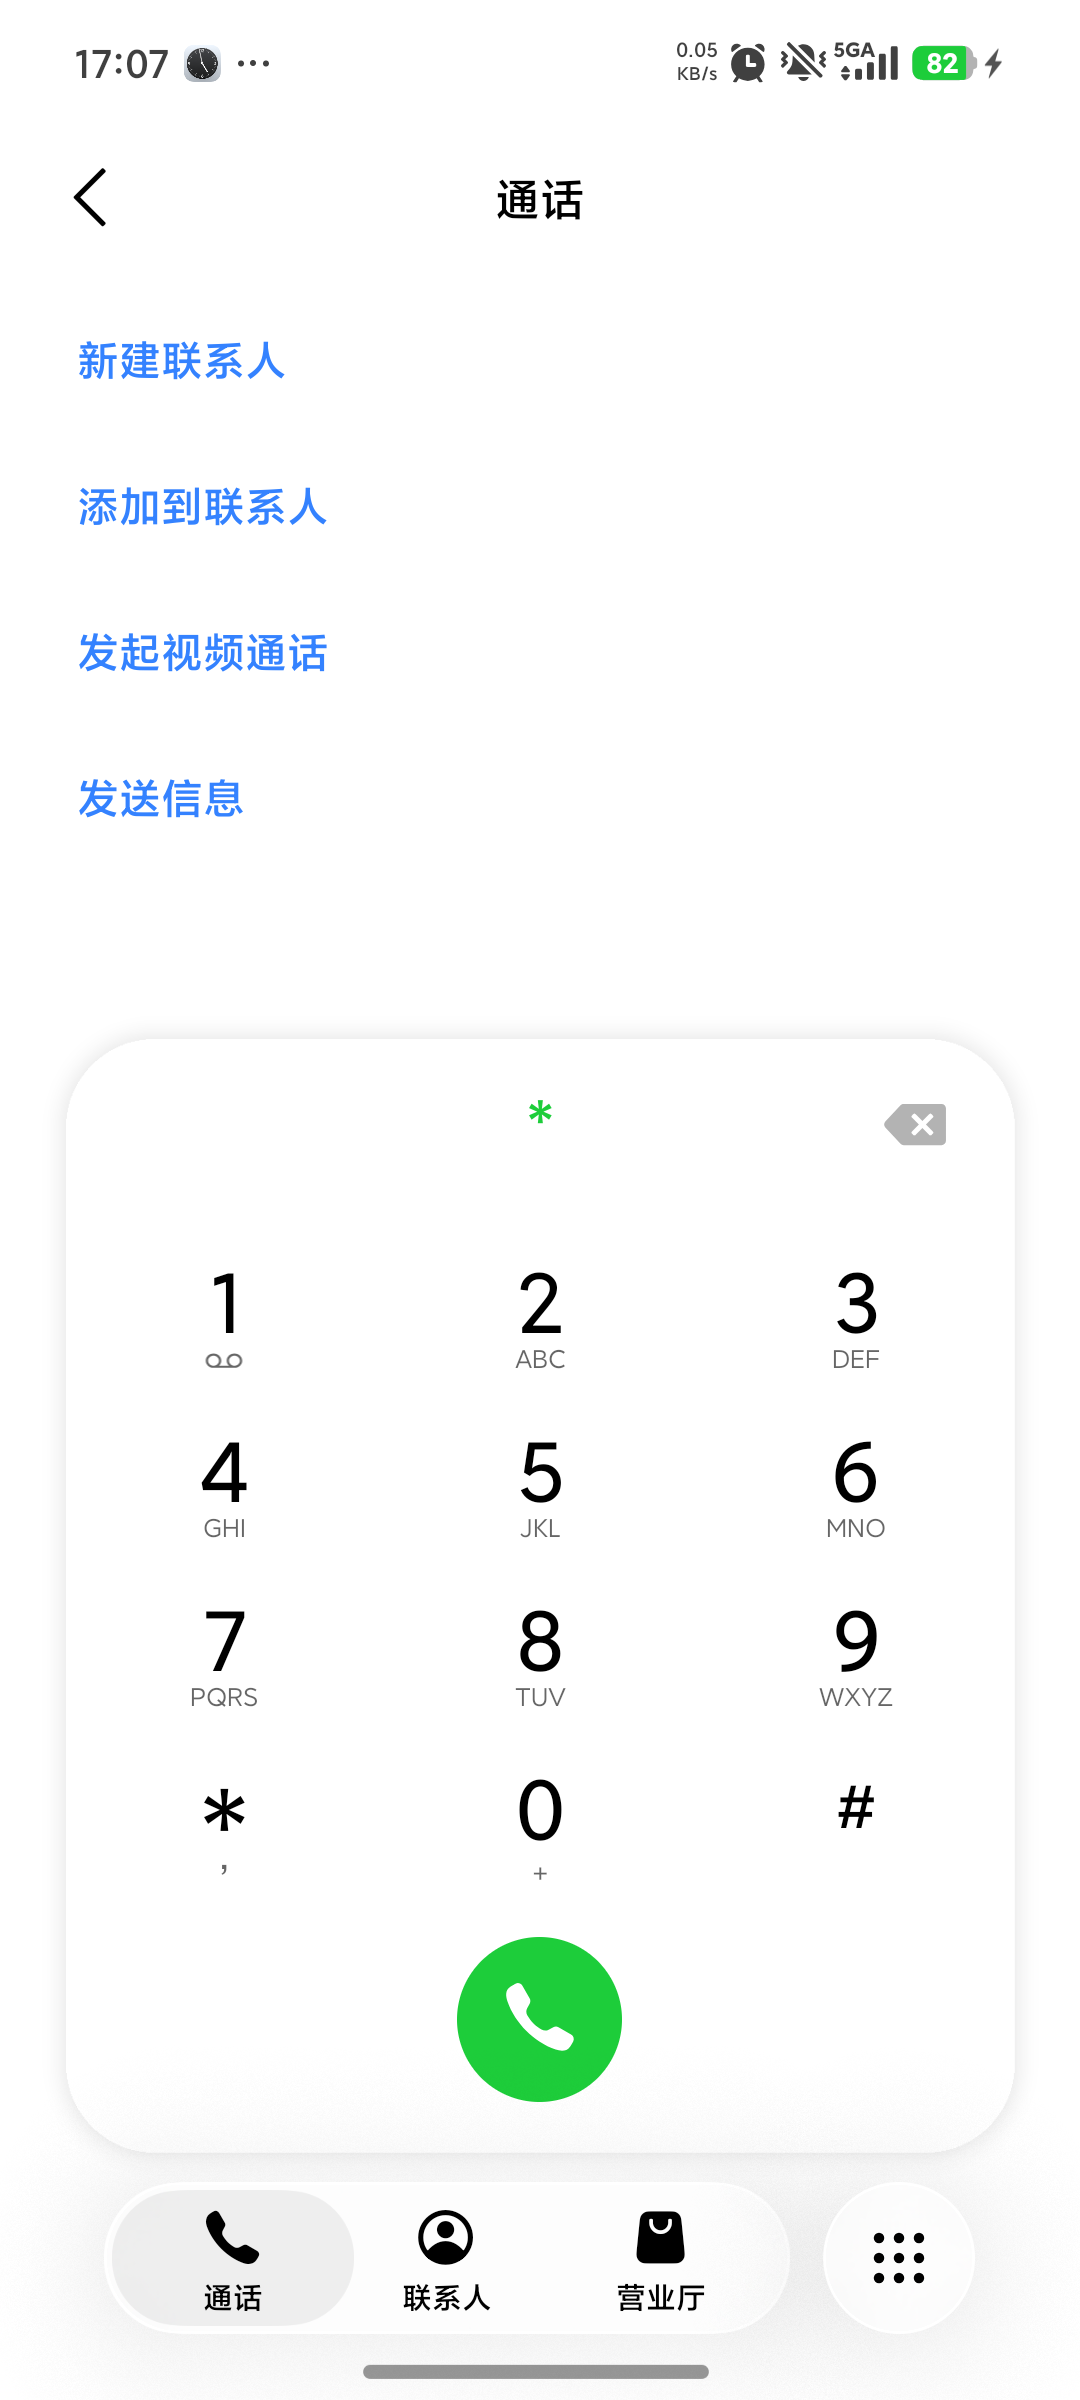
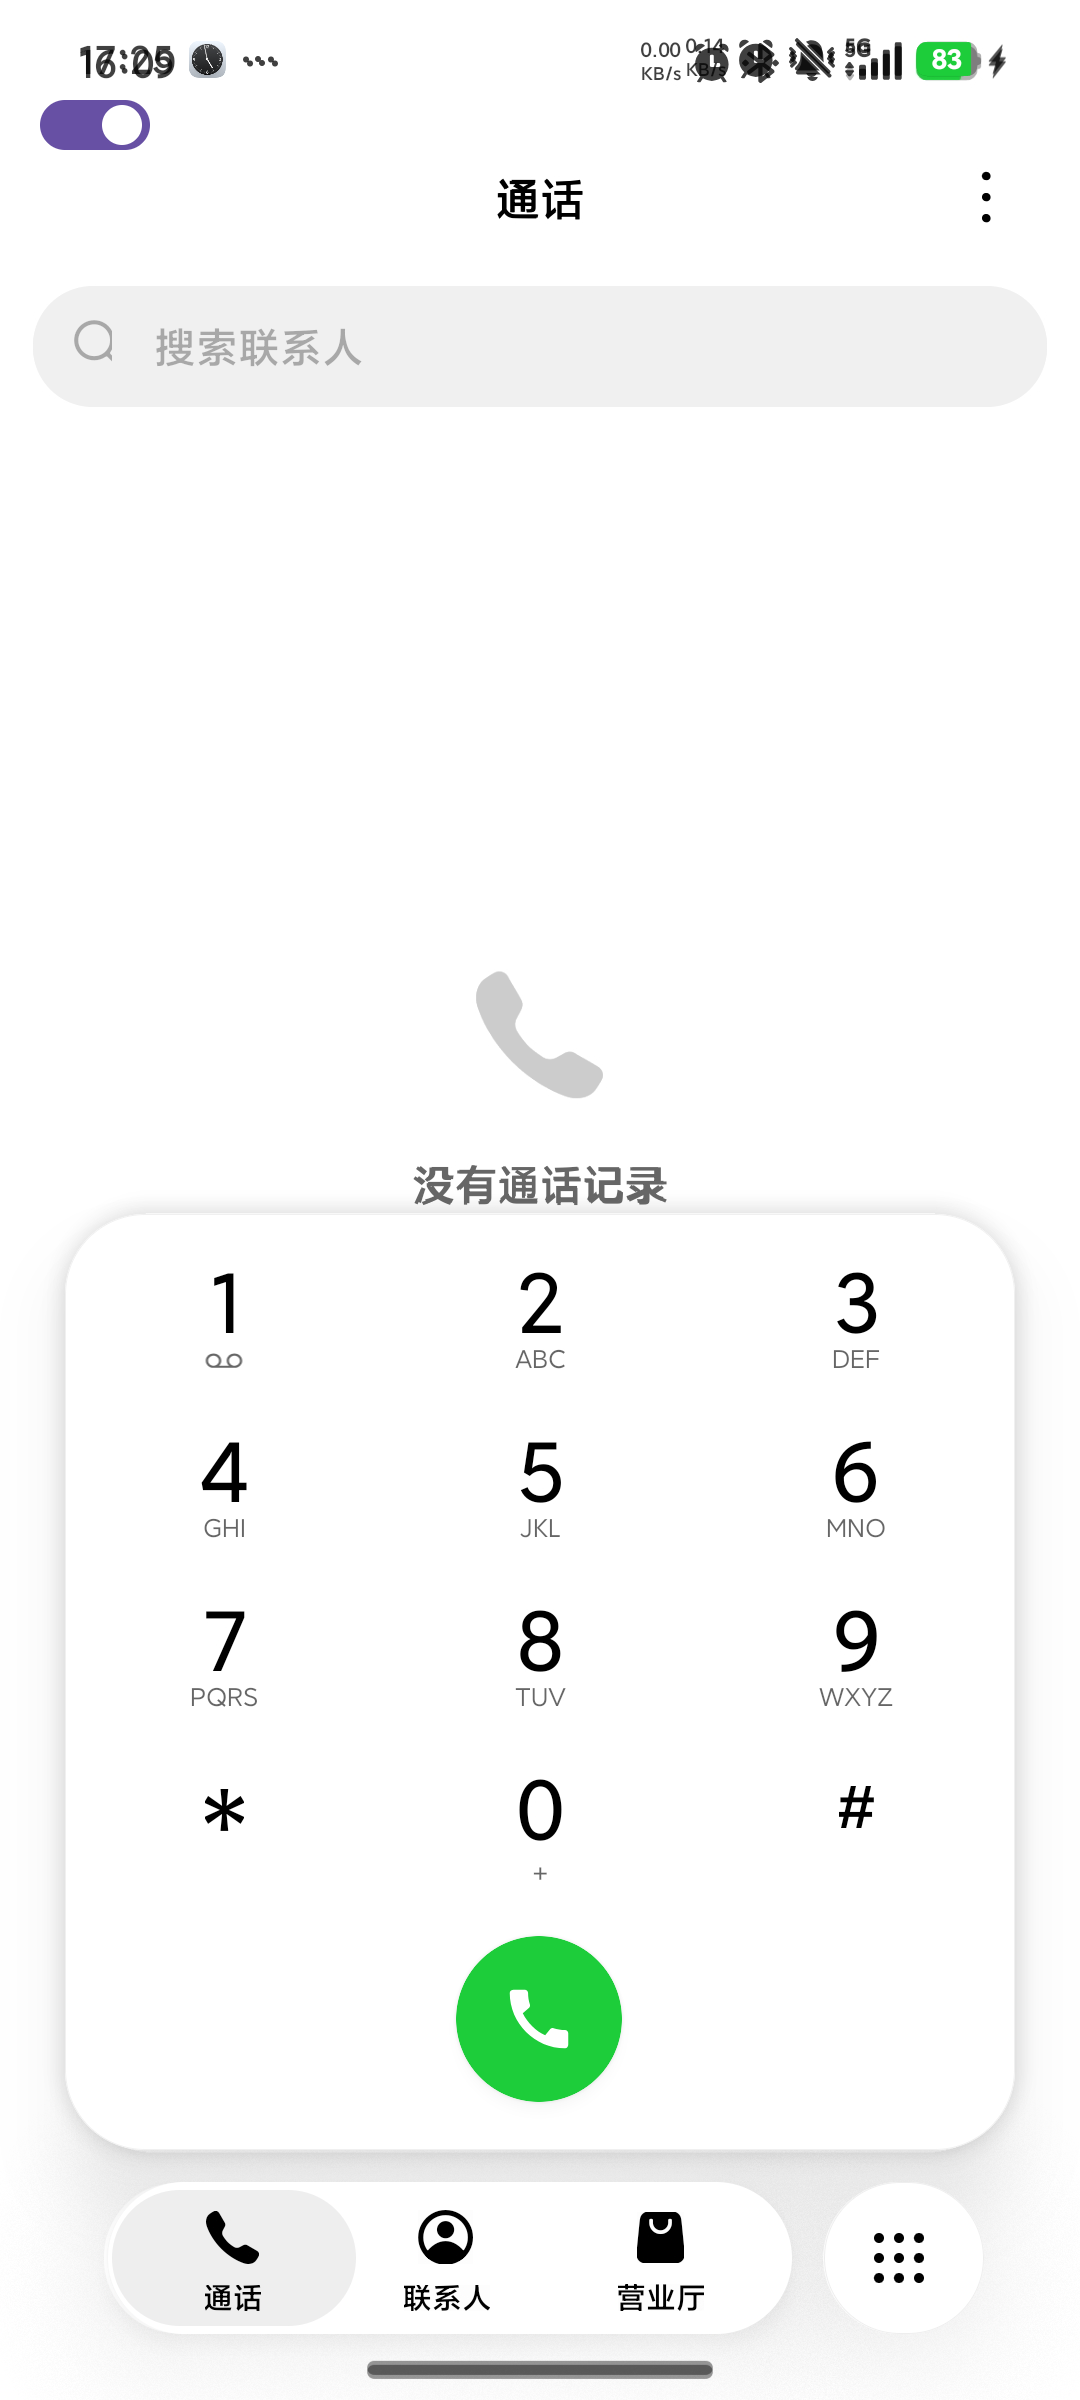
Clear secret code text immediately, hold card expanded 1s

diff --git a/app/src/main/java/com/example/dialerclone/ui/DialerApp.kt b/app/src/main/java/com/example/dialerclone/ui/DialerApp.kt
@@ -30,6 +30,7 @@ import kotlinx.coroutines.launch
 fun DialerApp() {
     var number by remember { mutableStateOf("") }
     var showDeviceInfo by remember { mutableStateOf(false) }
+    var holdExpanded by remember { mutableStateOf(false) }
     var searching by remember { mutableStateOf(false) }
     var selectedTab by remember { mutableIntStateOf(0) }
     val context = LocalContext.current
@@ -38,13 +39,15 @@ fun DialerApp() {
     fun appendDigit(digit: String) {
         val next = number + digit
         // MIUI-style secret code: *#06# opens the mobile device identity sheet.
-        // Keep the number row expanded while the dialog slides in, then clear it
-        // so the row/dialpad collapse animation starts 1s after the dialog.
+        // Clear the displayed text immediately, but hold the dialpad card expanded
+        // for 1s so the collapse animation starts after the dialog has appeared.
         if (next == "*#06#") {
+            number = ""
             showDeviceInfo = true
+            holdExpanded = true
             scope.launch {
                 delay(1000)
-                number = ""
+                holdExpanded = false
             }
         } else {
             number = next
@@ -73,6 +76,7 @@ fun DialerApp() {
                 when (selectedTab) {
                         0 -> DialerHome(
                             number = number,
+                            holdExpanded = holdExpanded,
                             searching = searching,
                             onSearchingChange = { searching = it },
                             onDigit = ::appendDigit,
@@ -107,6 +111,7 @@ fun DialerApp() {
                         DeviceInfoDialog(
                             onDismiss = {
                                 showDeviceInfo = false
+                                holdExpanded = false
                                 number = ""
                             }
                         )

diff --git a/app/src/main/java/com/example/dialerclone/ui/DialerHome.kt b/app/src/main/java/com/example/dialerclone/ui/DialerHome.kt
@@ -98,6 +98,7 @@ private val LETTER_ASSETS = mapOf(
 @Composable
 fun DialerHome(
     number: String,
+    holdExpanded: Boolean = false,
     searching: Boolean,
     onSearchingChange: (Boolean) -> Unit,
     onDigit: (String) -> Unit,
@@ -109,7 +110,7 @@ fun DialerHome(
     onTabSelected: (Int) -> Unit
 ) {
     val context = LocalContext.current
-    val inputMode = number.isNotEmpty() || searching
+    val inputMode = number.isNotEmpty() || searching || holdExpanded
     // 0 = idle dialpad, 1 = number-input state. Drives the upward expansion
     // of the dialpad card and the fade/slide-in of the number row, as in the video.
     val inputProgress by animateFloatAsState(
